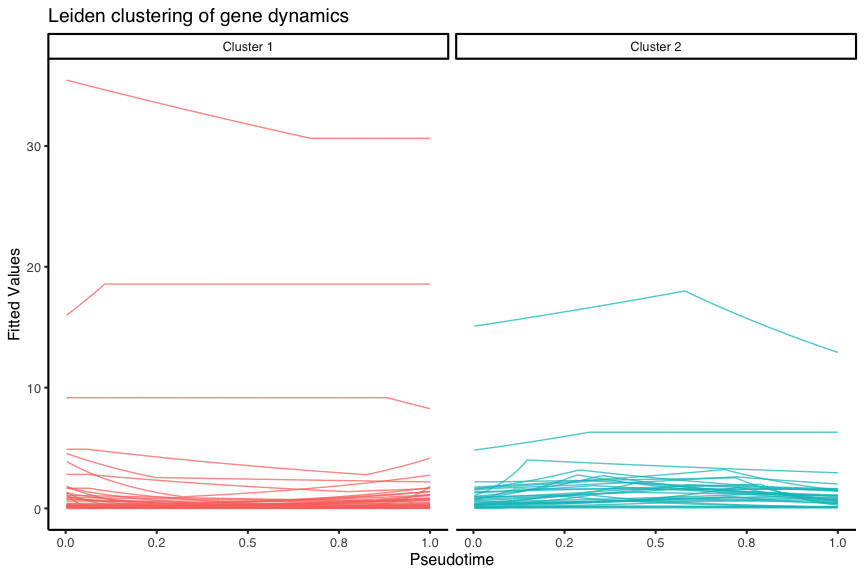
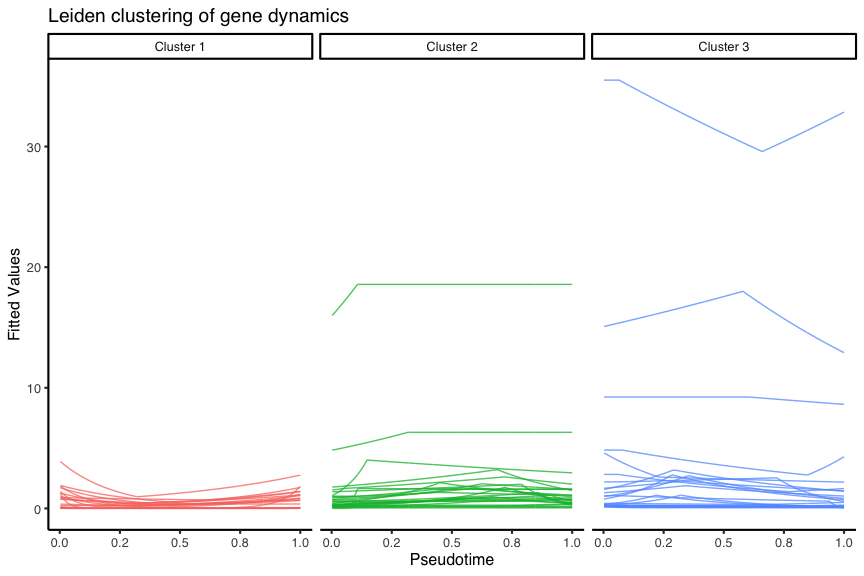
recompiled README

diff --git a/README.md b/README.md
@@ -3,6 +3,7 @@
   - [Installation](#installation)
   - [Model structure](#model-structure)
 - [Usage](#usage)
+  - [Libraries](#libraries)
   - [Input data](#input-data)
   - [Trajectory DE testing](#trajectory-de-testing)
   - [Downstream analysis &
@@ -81,58 +82,30 @@ gene to be dynamic if the adjusted *p*-value of the test is less than an
 adjustment method is [the Holm
 correction](https://en.wikipedia.org/wiki/Holm–Bonferroni_method).
 
-## Input data
+## Libraries
 
-`scLANE` has a few basic inputs with standardized formats, though
-different modeling frameworks require different inputs; for example, the
-GEE & GLMM backends require a vector of subject IDs corresponding to
-each cell. We’ll start by simulating some scRNA-seq counts data with a
-subset of genes being dynamic over a trajectory using the [`scaffold` R
-package](https://github.com/rhondabacher/scaffold). As part of our
-simulation studies I wrote the function sourced below to generate
-multi-subject scRNA-seq datasets with trajectories partially conserved
-between subjects.
-
-``` r
-source("https://raw.githubusercontent.com/jr-leary7/scLANE-Sims/main/R/functions_simulation.R")
-```
-
-We’ll also need to load a couple dependencies & resolve a function
+First we’ll also need to load a couple dependencies & resolve a function
 conflict.
 
 ``` r
 library(dplyr)
-library(scran)
-library(purrr)
 library(scater)
 library(scLANE)
 library(ggplot2)
-library(scaffold)
-library(SingleCellExperiment)
 select <- dplyr::select
 filter <- dplyr::filter
 ```
 
-We’ll use the `scRNAseq` R package to pull the human pancreas data from
-[Baron *et al* 2017](https://doi.org/10.1016/j.cels.2016.08.011) to
-serve as our reference dataset. We then simulate a dataset with 3
-subjects, 1200 cells allocated equally between subjects, and 10% of the
-genes dynamic over the simulated trajectory. We label a gene dynamic at
-the population level if (in this case) it’s dynamic in 2/3 subjects.
-Internally, the function ensures that 80% of the dynamic genes are
-common across subject - a fairly homogeneous trajectory. The underlying
-true pseudotime values are stored in the `colData` slot of the
+## Input data
+
+We read a previously-simulated dataset comprised of cells from 3
+subjects exhibiting a homogeneous trajectory structure from [the Zenodo
+repository](https://doi.org/10.5281/zenodo.8433077). The underlying true
+pseudotime values are stored in the `colData` slot of the
 `SingleCellExperiment` object under the name **cell_time_normed**.
 
 ``` r
-set.seed(312)
-panc <- scRNAseq::BaronPancreasData(which = "human")
-sim_data <- simulate_multi_subject(ref.dataset = panc, 
-                                   perc.dyn.genes = 0.1, 
-                                   n.cells = 1200, 
-                                   perc.allocation = rep(1/3, 3), 
-                                   n.subjects = 3, 
-                                   gene.dyn.threshold = 2)
+sim_data <- readRDS(url("https://zenodo.org/record/8433077/files/scLANE_sim_data.Rds"))
 ```
 
 The PCA embeddings show us a pretty simple trajectory that’s strongly
@@ -140,7 +113,7 @@ correlated with the first principal component.
 
 ``` r
 plotPCA(sim_data, colour_by = "cell_time_normed") + 
-  theme_scLANE()
+  theme_scLANE(umap = TRUE)
 ```
 
 <img src="man/figures/README-plot-sims-pt-1.png" width="100%" />
@@ -150,7 +123,7 @@ that gene dynamics are mostly homogeneous across subjects.
 
 ``` r
 plotPCA(sim_data, colour_by = "subject") + 
-  theme_scLANE()
+  theme_scLANE(umap = TRUE)
 ```
 
 <img src="man/figures/README-plot-sims-subj-1.png" width="100%" />
@@ -217,7 +190,7 @@ select(scLANE_res_glm, Gene, Lineage, Test_Stat, P_Val, P_Val_Adj, Gene_Dynamic_
 | Gene   | Lineage | LRT stat. | P-value | Adj. p-value | Predicted dynamic status |
 |:-------|:--------|----------:|--------:|-------------:|-------------------------:|
 | MPG    | A       |   415.016 |       0 |            0 |                        1 |
-| WAPAL  | A       |   361.360 |       0 |            0 |                        1 |
+| WAPAL  | A       |   364.990 |       0 |            0 |                        1 |
 | JARID2 | A       |   353.612 |       0 |            0 |                        1 |
 | ERGIC3 | A       |   294.186 |       0 |            0 |                        1 |
 | PFDN2  | A       |   258.867 |       0 |            0 |                        1 |
@@ -310,7 +283,7 @@ select(scLANE_res_gee, Gene, Lineage, Test_Stat, P_Val, P_Val_Adj, Gene_Dynamic_
 | Gene   | Lineage |  Wald stat. | P-value | Adj. p-value | Predicted dynamic status |
 |:-------|:--------|------------:|--------:|-------------:|-------------------------:|
 | CKAP4  | A       | 4172613.197 |       0 |            0 |                        1 |
-| DGUOK  | A       |   64351.893 |       0 |            0 |                        1 |
+| DGUOK  | A       |  200675.460 |       0 |            0 |                        1 |
 | EMC3   | A       |   22164.408 |       0 |            0 |                        1 |
 | ERGIC3 | A       |   16466.403 |       0 |            0 |                        1 |
 | RAB1B  | A       |    5678.834 |       0 |            0 |                        1 |
@@ -332,8 +305,8 @@ caret::confusionMatrix(factor(scLANE_res_gee$Gene_Dynamic_Overall, levels = c(0,
 #> 
 #>           Reference
 #> Prediction  0  1
-#>          0 47 15
-#>          1  3 35
+#>          0 48 16
+#>          1  2 34
 #>                                           
 #>                Accuracy : 0.82            
 #>                  95% CI : (0.7305, 0.8897)
@@ -342,15 +315,15 @@ caret::confusionMatrix(factor(scLANE_res_gee$Gene_Dynamic_Overall, levels = c(0,
 #>                                           
 #>                   Kappa : 0.64            
 #>                                           
-#>  Mcnemar's Test P-Value : 0.009522        
+#>  Mcnemar's Test P-Value : 0.002183        
 #>                                           
-#>             Sensitivity : 0.7000          
-#>             Specificity : 0.9400          
-#>          Pos Pred Value : 0.9211          
-#>          Neg Pred Value : 0.7581          
+#>             Sensitivity : 0.6800          
+#>             Specificity : 0.9600          
+#>          Pos Pred Value : 0.9444          
+#>          Neg Pred Value : 0.7500          
 #>              Prevalence : 0.5000          
-#>          Detection Rate : 0.3500          
-#>    Detection Prevalence : 0.3800          
+#>          Detection Rate : 0.3400          
+#>    Detection Prevalence : 0.3600          
 #>       Balanced Accuracy : 0.8200          
 #>                                           
 #>        'Positive' Class : 1               
@@ -404,9 +377,9 @@ select(scLANE_res_glmm, Gene, Lineage, Test_Stat, P_Val, P_Val_Adj, Gene_Dynamic
 
 | Gene   | Lineage | LRT stat. | P-value | Adj. p-value | Predicted dynamic status |
 |:-------|:--------|----------:|--------:|-------------:|-------------------------:|
-| WAPAL  | A       |   366.154 |       0 |            0 |                        1 |
+| WAPAL  | A       |   374.263 |       0 |            0 |                        1 |
 | JARID2 | A       |   334.714 |       0 |            0 |                        1 |
-| FLOT2  | A       |   314.979 |       0 |            0 |                        1 |
+| FLOT2  | A       |   323.358 |       0 |            0 |                        1 |
 | ISOC2  | A       |   223.028 |       0 |            0 |                        1 |
 | MFSD2B | A       |   198.036 |       0 |            0 |                        1 |
 
@@ -430,26 +403,26 @@ caret::confusionMatrix(factor(scLANE_res_glmm$Gene_Dynamic_Overall, levels = c(0
 #> 
 #>           Reference
 #> Prediction  0  1
-#>          0 50 20
-#>          1  0 30
+#>          0 50 19
+#>          1  0 31
 #>                                           
-#>                Accuracy : 0.8             
-#>                  95% CI : (0.7082, 0.8733)
+#>                Accuracy : 0.81            
+#>                  95% CI : (0.7193, 0.8816)
 #>     No Information Rate : 0.5             
-#>     P-Value [Acc > NIR] : 5.580e-10       
+#>     P-Value [Acc > NIR] : 1.351e-10       
 #>                                           
-#>                   Kappa : 0.6             
+#>                   Kappa : 0.62            
 #>                                           
-#>  Mcnemar's Test P-Value : 2.152e-05       
+#>  Mcnemar's Test P-Value : 3.636e-05       
 #>                                           
-#>             Sensitivity : 0.6000          
+#>             Sensitivity : 0.6200          
 #>             Specificity : 1.0000          
 #>          Pos Pred Value : 1.0000          
-#>          Neg Pred Value : 0.7143          
+#>          Neg Pred Value : 0.7246          
 #>              Prevalence : 0.5000          
-#>          Detection Rate : 0.3000          
-#>    Detection Prevalence : 0.3000          
-#>       Balanced Accuracy : 0.8000          
+#>          Detection Rate : 0.3100          
+#>    Detection Prevalence : 0.3100          
+#>       Balanced Accuracy : 0.8100          
 #>                                           
 #>        'Positive' Class : 1               
 #> 
@@ -535,11 +508,11 @@ slice_sample(gene_clust_table, n = 5) %>%
 
 | Gene    | Lineage | Cell | Fitted (link) | Fitted (response) | Pseudotime | Cluster |
 |:--------|:--------|:-----|--------------:|------------------:|-----------:|:--------|
-| RPL23   | A       | 905  |         2.991 |            18.571 |      0.262 | 1       |
-| ARHGEF9 | A       | 974  |        -1.098 |             0.353 |      0.435 | 1       |
-| BAD     | A       | 8    |         0.411 |             1.054 |      0.020 | 1       |
-| ARHGEF9 | A       | 417  |        -2.104 |             0.413 |      0.043 | 1       |
-| SF3B5   | A       | 535  |         0.498 |             2.513 |      0.338 | 1       |
+| LGR4    | A       | 964  |        -0.964 |             0.200 |      0.410 | 2       |
+| TIMP1   | A       | 21   |         3.478 |            15.317 |      0.052 | 3       |
+| RPL23   | A       | 905  |         2.991 |            18.571 |      0.262 | 2       |
+| ARHGEF9 | A       | 974  |        -1.098 |             0.353 |      0.435 | 3       |
+| BAD     | A       | 8    |         0.411 |             1.054 |      0.020 | 3       |
 
 The results can then be plotted as desired using `ggplot2` or another
 visualization package.
